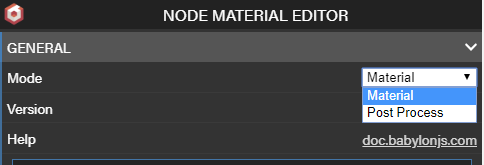
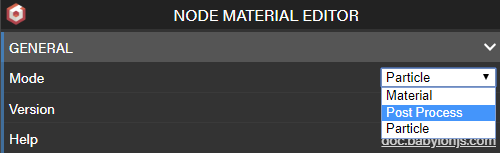
Update post process doc + Add particles doc

Changed region(s): [[0.0, 0.0, 1.0, 1.0], [0.3409, 0.0523, 0.7438, 0.1569], [0.0, 0.0, 0.062, 0.1569]]

diff --git a/content/How_To/material/Node_Material.md b/content/How_To/material/Node_Material.md
@@ -1155,11 +1155,19 @@ You need simply to change the mode to *Post Process*:
 
 In this mode, the special block **CurrentScreen** corresponds to the frame buffer that will be passed to your post process when you use this material as a post process in a real scenario. You can load any texture you want, it's simply an helper for you to see how your post process will render in the end.
 
-Some blocks are made unavailable in this mode (they are hidden from the block list), as they have no meaning: the mesh and animation blocks.
+Some blocks are made unavailable in this mode (they are hidden from the block list), as they have no meaning: the mesh, particle and animation blocks.
 
 When you have created your post process material in the NME, you can create a regular `BABYLON.PostProcess` instance by calling the `NodeMaterial.createPostProcess` method:
 ```javascript
 const postProcess = nodeMaterial.createPostProcess(camera);
+```
+
+You can also update an existing post process:
+
+```javascript
+const myPostProcess = new BABYLON.PostProcess(...);
+...
+nodeMaterial.createEffectForPostProcess(myPostProcess);
 ```
 
 PG: https://playground.babylonjs.com/#WB27SW#1
@@ -1169,6 +1177,35 @@ As for regular node materials, you can access the blocks programmatically and ch
 Base material: https://playground.babylonjs.com/#WB27SW#4
 
 Programmatically updated material: https://playground.babylonjs.com/#WB27SW#3
+
+## Creating Particle shaders
+
+Starting with Babylon.js v4.2, you can now create particle shaders (to be used with a particle system) with the node material editor.
+
+You need simply to change the mode to *Particle*:
+
+![Particle choice](/img/how_to/Materials/particleMenu.png)
+
+Some blocks are made unavailable in this mode (they are hidden from the block list), as they have no meaning: the mesh, post process and animation blocks.
+
+Also, in this mode, you can't create a vertex shader, only a fragment shader: the vertex shader is fixed and not updatable.
+
+Note that everything is driven by the parameters of the particle system instance. For eg, if the current particle system displayed in the preview area does not use "ramp gradients", the `ParticleRampGradient` block does nothing (it does not add ramp gradients to the shader), it's just a pass-through. Same thing for the `ParticleBlendMultiply` block. The exception is the `ParticleTexture` block, and only in the preview area of the node editor: if you provide a texture for this block it will be used as the particle texture in the preview area, else the texture defined in the current particle system will be used. In any case, when using the material in a live program, the texture will always be the one defined by the `ParticleSystem.particleTexture` property.
+
+The materials you create in the **Particle** mode can also be used for GPU particle systems, save for these restrictions:
+* GPU particle systems don't support ramp gradients, so the `RampGradientBlock` won't do anything (you can still use it in your material, it will simply do nothing)
+* GPU particle systems don't support the `textureMask` property, so you should not use the `ParticleTextureMask` block in your materials targeted for GPU particle systems, else display artifacts will appear
+
+When you have created your particle shader in the NME, you can link the material to a particle system instance by calling the `NodeMaterial.createEffectForParticles` method:
+```javascript
+nodeMaterial.createEffectForParticles(particleSystem);
+```
+
+PG: https://playground.babylonjs.com/#J9J6CG#1
+
+The full fragment shader used by default by the particle system can be recreated in the NME: https://nme.babylonjs.com/#X3PJMQ#1
+
+As explained above, if you want to use this material for GPU particle systems, you should remove the use of the `ParticleTextureMask` block: https://nme.babylonjs.com/#X3PJMQ#2
 
 ## Loading from a file saved from the Node Material Editor
 
@@ -1210,6 +1247,8 @@ Here are some node material examples that you can use "as is" or extend with the
 * `GridMaterial` recreated as a node material: https://nme.babylonjs.com/#I4DJ9Z
 * "mist" post process: https://nme.babylonjs.com/#YDGZCJ
 * "dissolve" post process: https://nme.babylonjs.com/#D0USYC
+* Default particle shader: https://nme.babylonjs.com/#X3PJMQ#1
+* Default particle shader (GPU particle systems): https://nme.babylonjs.com/#X3PJMQ#2
 
 ## Going further
 
